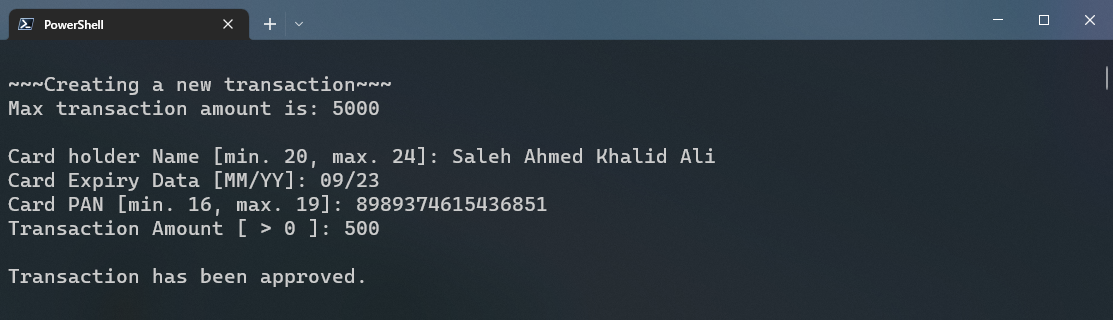
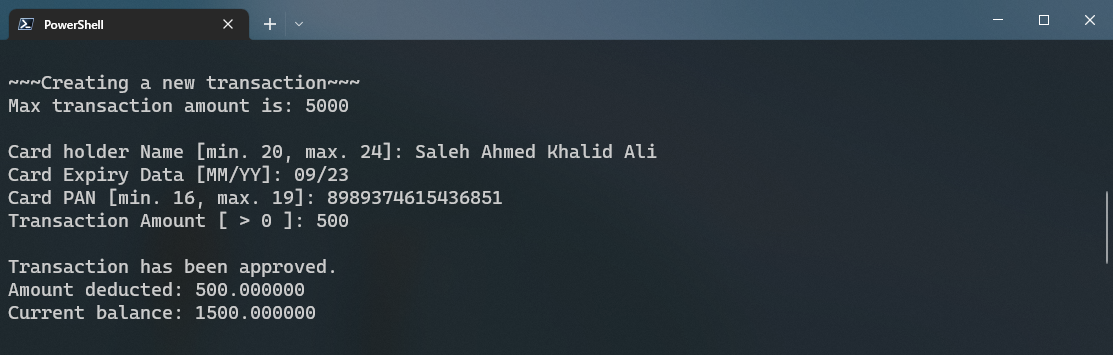
fix: show amount deducted on approved transaction
And fix a problem with setting the new account balance.

diff --git a/src/UdacityPaymentApp/Application/app.c b/src/UdacityPaymentApp/Application/app.c
@@ -269,6 +269,8 @@ static void CommandMakeTransaction(void)
     EN_transState_t transState = APPROVED;
     ST_transaction_t transData = { 0 };
 
+    ST_accountsDB_t account = { 0 };
+
     puts("");
     puts("~~~Creating a new transaction~~~");
     puts("Max transaction amount is: 5000");
@@ -349,6 +351,21 @@ static void CommandMakeTransaction(void)
     transData.terminalData = termData;
     transState = recieveTransactionData(&transData);
     PrintUserReadableTransactionState(transState);
+    if (transState == APPROVED)
+    {
+        printf("Amount deducted: %f\n", termData.transAmount);
+
+        // Get the account and print the current balance
+        if (isValidAccount(&cardData, &account) == SERVER_OK)
+        {
+            printf("Current balance: %f\n", account.balance);
+        }
+        else
+        {
+            _RPTF0(_CRT_ERROR, "isValidAccount unexpectedly failed.\n");
+            puts("##Unexpected Error Occurred during `isValidAccount`##");
+        }
+    }
     puts("");
 }
 

diff --git a/src/UdacityPaymentApp/Server/server.c b/src/UdacityPaymentApp/Server/server.c
@@ -116,7 +116,14 @@ done:
     // Update balance if the transaction has been approved and saved.
     if (transState == APPROVED)
     {
-        account.balance -= transData->terminalData.transAmount;
+        for (int i = 0; i < MAX_ENTRIES; i++)
+        {
+            if (strcmp(accountsDB[i].primaryAccountNumber, account.primaryAccountNumber) == 0)
+            {
+                accountsDB[i].balance -= transData->terminalData.transAmount;
+                break;
+            }
+        }
     }
 
     return transState;
